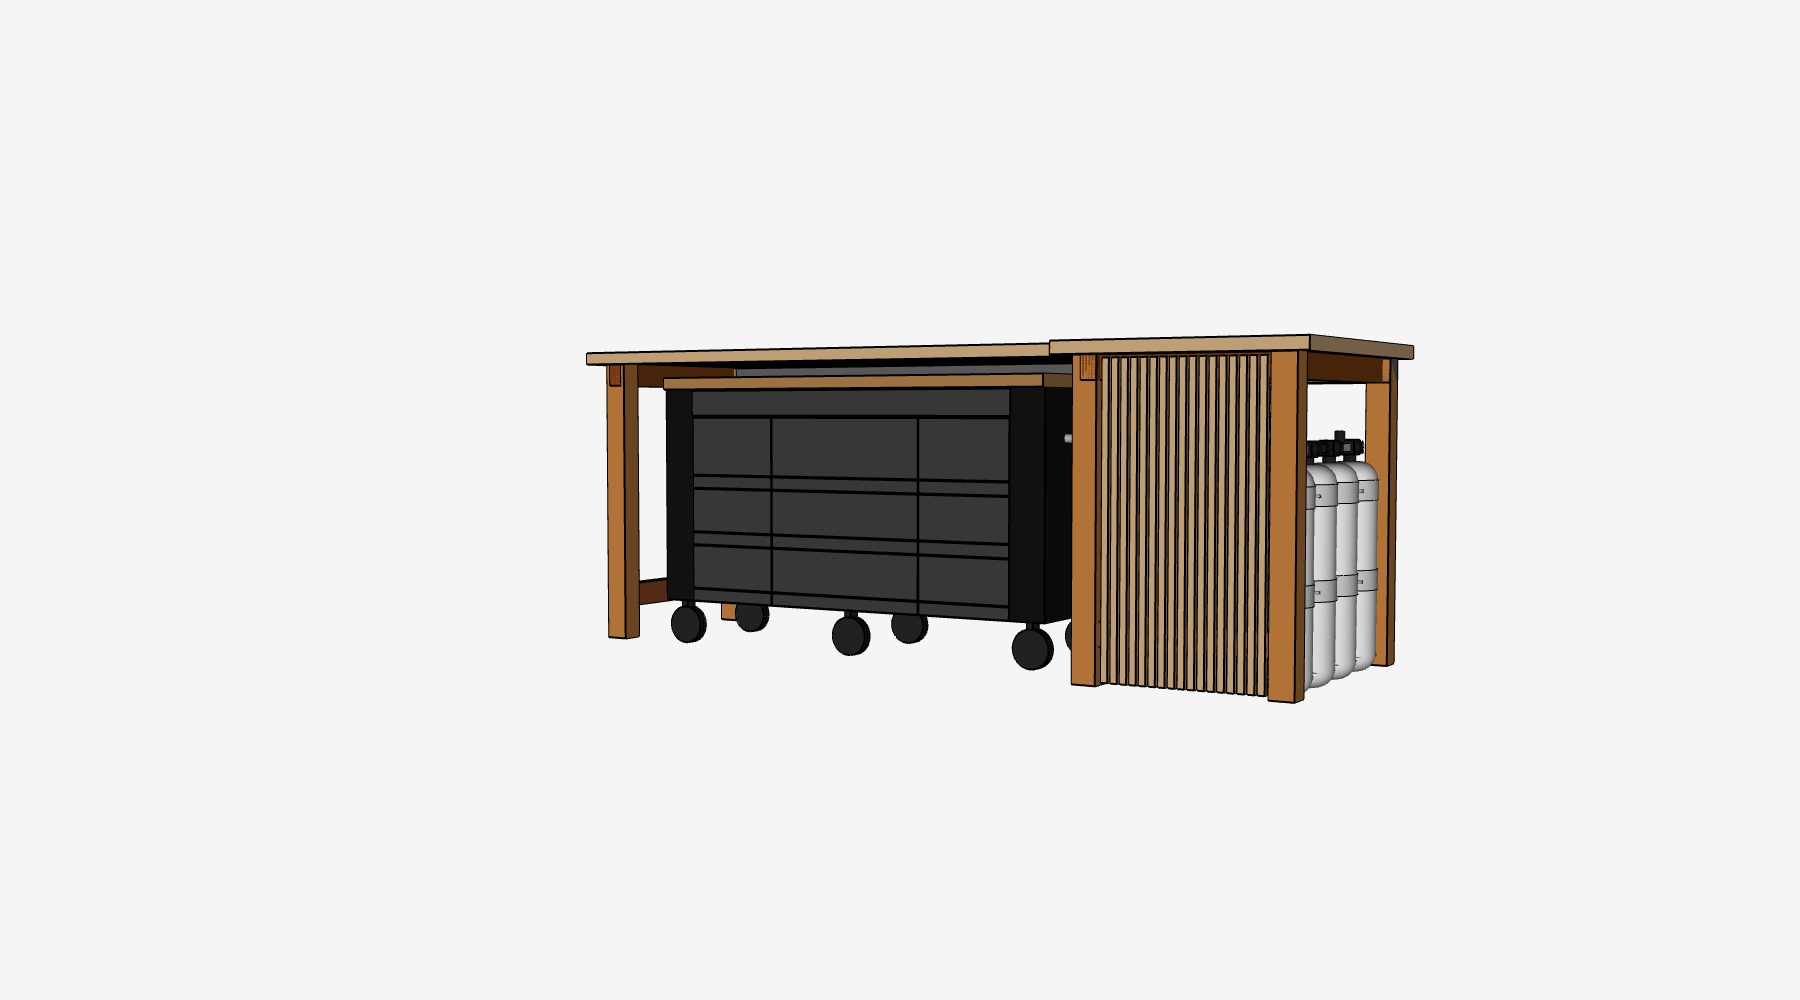
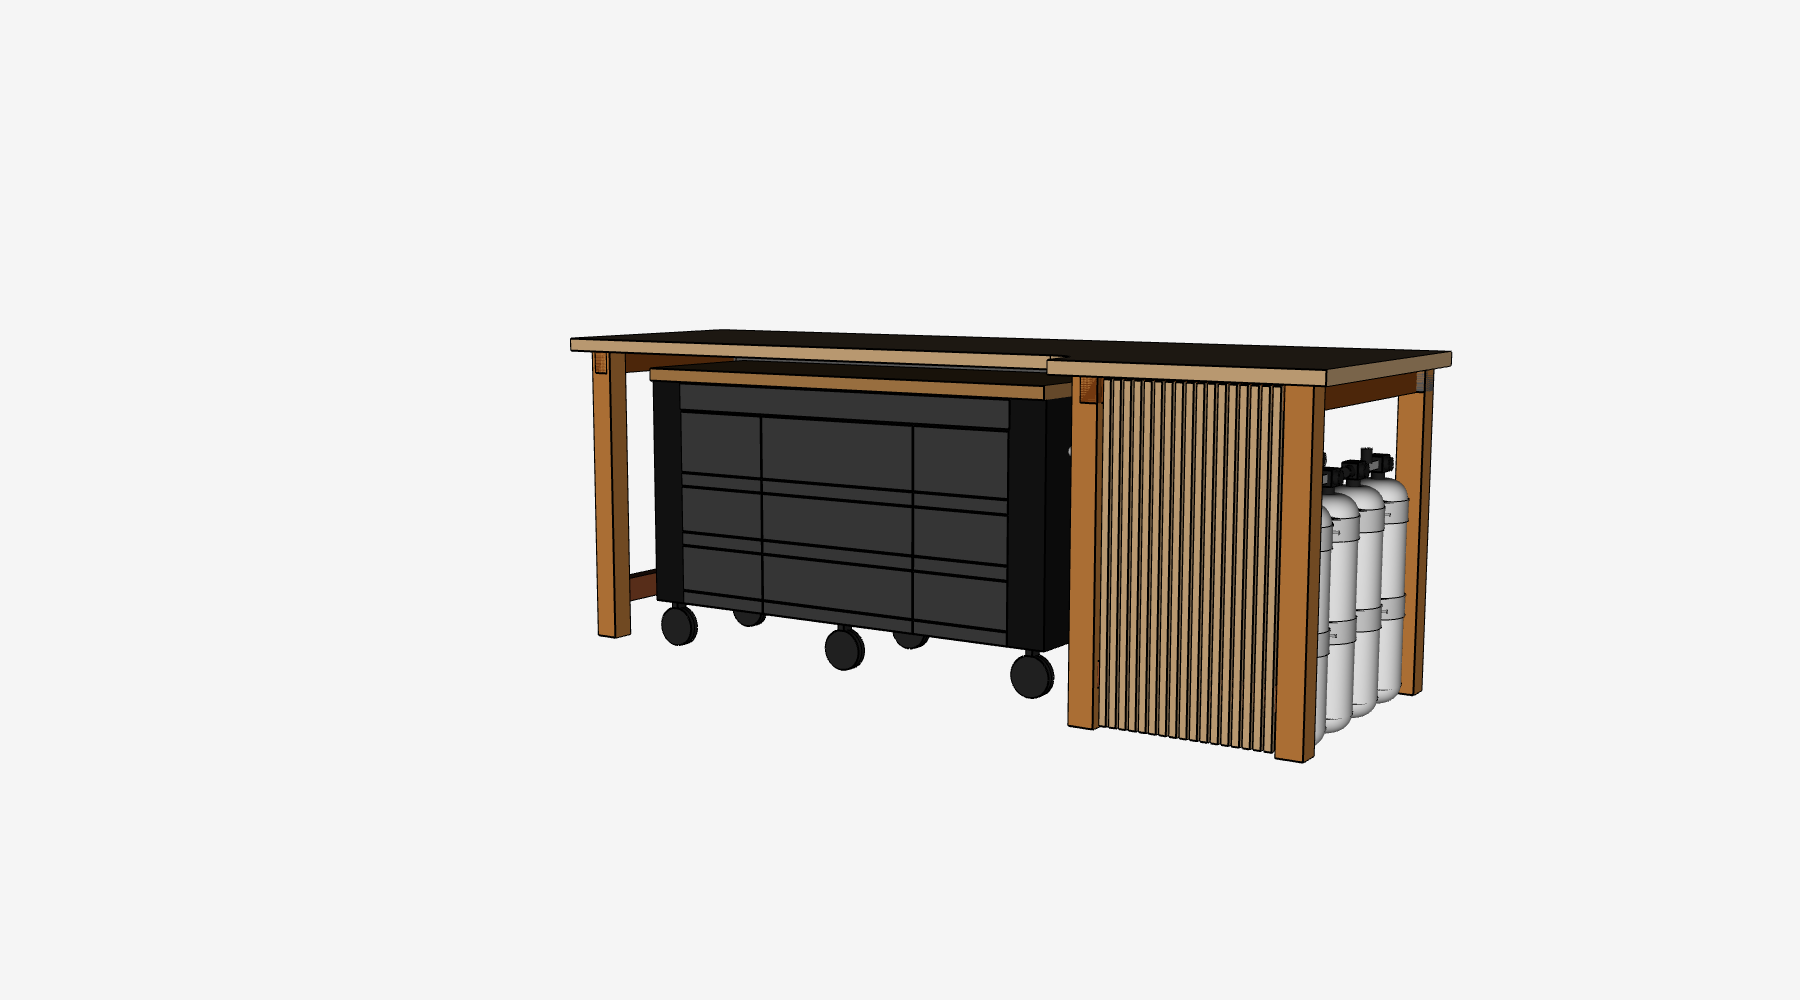
Render: slight elevation to show tabletop edge

Changed region(s): [[0.3111, 0.31, 0.8089, 0.775]]

diff --git a/src/workbench/render_colored.py b/src/workbench/render_colored.py
@@ -48,7 +48,7 @@ def render(
 
     # Camera: frontal-right, low — shows front face, cart + wheels, tanks
     cam = renderer.GetActiveCamera()
-    cam.SetPosition(3000, -5500, 800)
+    cam.SetPosition(3000, -5000, 1300)
     cam.SetFocalPoint(-300, 0, 500)
     cam.SetViewUp(0, 0, 1)
     renderer.ResetCameraClippingRange()
